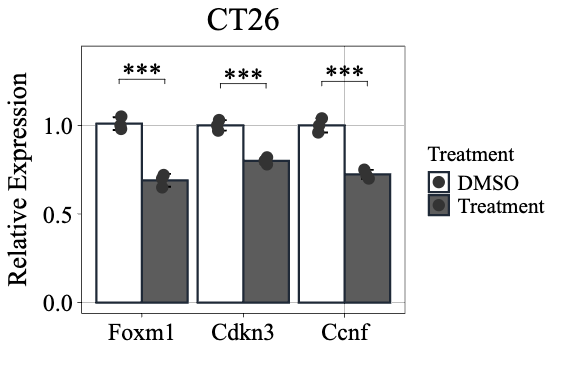
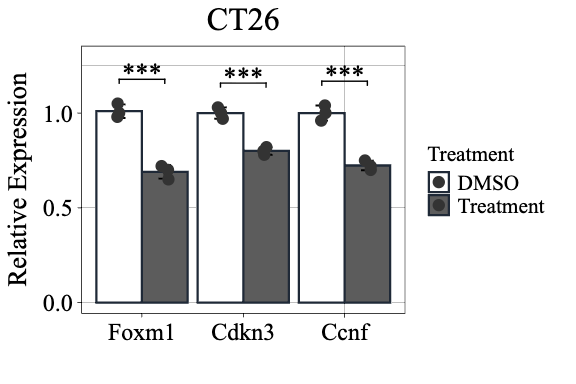
Replace showcase figures with new examples (12 charts)

diff --git a/index.html b/index.html
@@ -600,27 +600,31 @@
     <h2>What You Can Make with Figra</h2>
     <div class="showcase-track">
       <!-- First set of images -->
-      <div class="showcase-item"><img src="./figures/bar_error_dots.png" alt="Bar plot with error bars and dots"></div>
-      <div class="showcase-item"><img src="./figures/box_dots.png" alt="Box plot with dots"></div>
-      <div class="showcase-item"><img src="./figures/violin_dots.png" alt="Violin plot"></div>
+      <div class="showcase-item"><img src="./figures/bar.png" alt="Bar plot"></div>
+      <div class="showcase-item"><img src="./figures/box.png" alt="Box plot"></div>
+      <div class="showcase-item"><img src="./figures/violin.png" alt="Violin plot"></div>
+      <div class="showcase-item"><img src="./figures/histogram.png" alt="Histogram"></div>
+      <div class="showcase-item"><img src="./figures/scatter_plot.png" alt="Scatter plot"></div>
       <div class="showcase-item"><img src="./figures/grouped_bar_error_dots.png" alt="Grouped bar plot with error and dots"></div>
       <div class="showcase-item"><img src="./figures/grouped_box_dots.png" alt="Grouped box plot with dots"></div>
-      <div class="showcase-item"><img src="./figures/line_grouped_stats.png" alt="Grouped line plot with statistics"></div>
-      <div class="showcase-item"><img src="./figures/grouped_bar_horizontal.png" alt="Horizontal grouped bar plot"></div>
-      <div class="showcase-item"><img src="./figures/bar_multicomp.png" alt="Bar plot with multiple comparisons"></div>
-      <div class="showcase-item"><img src="./figures/dose_response.png" alt="Dose response curve"></div>
-      <div class="showcase-item"><img src="./figures/go_plot.png" alt="Gene Ontology plot"></div>
+      <div class="showcase-item"><img src="./figures/group_line.png" alt="Grouped line plot"></div>
+      <div class="showcase-item"><img src="./figures/group_dose.png" alt="Grouped dose-response curve"></div>
+      <div class="showcase-item"><img src="./figures/dose_response_curve.png" alt="Dose-response curve"></div>
+      <div class="showcase-item"><img src="./figures/lq.png" alt="Linear-quadratic survival curve"></div>
+      <div class="showcase-item"><img src="./figures/gene_ontology.png" alt="Gene Ontology plot"></div>
       <!-- Duplicate set for seamless loop -->
-      <div class="showcase-item"><img src="./figures/bar_error_dots.png" alt="Bar plot with error bars and dots"></div>
-      <div class="showcase-item"><img src="./figures/box_dots.png" alt="Box plot with dots"></div>
-      <div class="showcase-item"><img src="./figures/violin_dots.png" alt="Violin plot"></div>
+      <div class="showcase-item"><img src="./figures/bar.png" alt="Bar plot"></div>
+      <div class="showcase-item"><img src="./figures/box.png" alt="Box plot"></div>
+      <div class="showcase-item"><img src="./figures/violin.png" alt="Violin plot"></div>
+      <div class="showcase-item"><img src="./figures/histogram.png" alt="Histogram"></div>
+      <div class="showcase-item"><img src="./figures/scatter_plot.png" alt="Scatter plot"></div>
       <div class="showcase-item"><img src="./figures/grouped_bar_error_dots.png" alt="Grouped bar plot with error and dots"></div>
       <div class="showcase-item"><img src="./figures/grouped_box_dots.png" alt="Grouped box plot with dots"></div>
-      <div class="showcase-item"><img src="./figures/line_grouped_stats.png" alt="Grouped line plot with statistics"></div>
-      <div class="showcase-item"><img src="./figures/grouped_bar_horizontal.png" alt="Horizontal grouped bar plot"></div>
-      <div class="showcase-item"><img src="./figures/bar_multicomp.png" alt="Bar plot with multiple comparisons"></div>
-      <div class="showcase-item"><img src="./figures/dose_response.png" alt="Dose response curve"></div>
-      <div class="showcase-item"><img src="./figures/go_plot.png" alt="Gene Ontology plot"></div>
+      <div class="showcase-item"><img src="./figures/group_line.png" alt="Grouped line plot"></div>
+      <div class="showcase-item"><img src="./figures/group_dose.png" alt="Grouped dose-response curve"></div>
+      <div class="showcase-item"><img src="./figures/dose_response_curve.png" alt="Dose-response curve"></div>
+      <div class="showcase-item"><img src="./figures/lq.png" alt="Linear-quadratic survival curve"></div>
+      <div class="showcase-item"><img src="./figures/gene_ontology.png" alt="Gene Ontology plot"></div>
     </div>
   </section>
 
